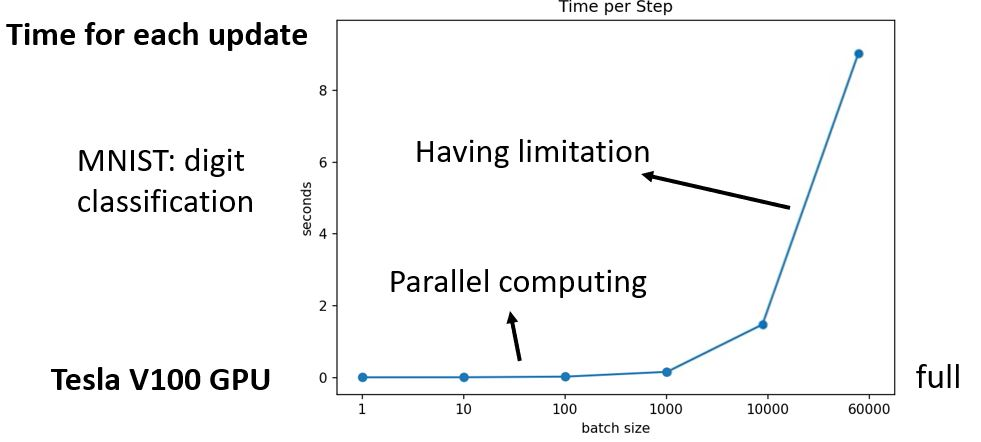
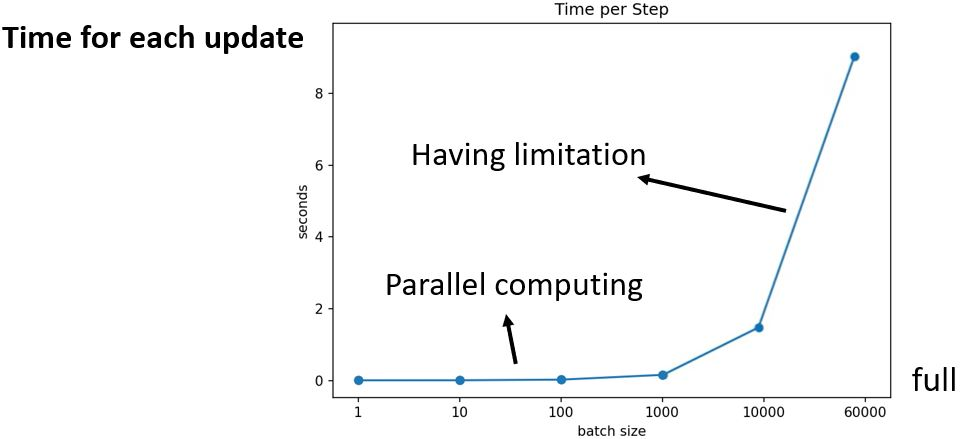
Update 2.md, 13.JPG, and 11 more files...

diff --git a/part5/chapter2/2.md b/part5/chapter2/2.md
@@ -53,17 +53,87 @@ sort: 2
 
 #### Review: Optimization with batch
 
-<figure><img src="./images/2/11.JPG" width=500px></figure>
+<figure><img src="./images/2/11.JPG" width=450px></figure>
 
 #### Small batch v.s. Large batch
 
 &emsp;&emsp;考虑有20个样本的情况（$$N=20$$）：
 
-<figure><img src="./images/2/12.JPG" width=600px></figure>
+<figure><img src="./images/2/12.JPG" width=550px></figure>
 
-左边的方法更新的一步更稳定，但是看起来花的时间长。但是实际上，考虑到并行运算，**大的batch size在计算梯度的时候并不需要更长的时间**。
+左边的方法更新的一步更稳定，但是看起来花的时间长。但是实际上，考虑到并行运算，<b><font color="#3399ff">大的batch size在计算梯度的时候并不需要更长的时间</font></b>。
 
-<figure><img src="./images/2/13.JPG" width=500px></figure>
+<figure>
+    <img src="./images/2/13.JPG" width=450px>
+    <figcaption>用Tesla V100 GPU在MNIST数据集上每次更新的时间随batch size变化的情况</figcaption>
+</figure>
+
+&emsp;&emsp;并且，<b><font color="#3399ff">较小的batch一次epoch所需的时间反而更长</font></b>（花更多的时间来把所有的数据看一遍）。
+
+<figure><img src="./images/2/14.JPG" width=450px></figure>
+
+&emsp;&emsp;那么大的batch就一定好吗？
+
+<figure>
+    <img src="./images/2/15.JPG" width=450px>
+    <figcaption>不同训练集上准确率随batch size变化的情况</figcaption>
+</figure>
+
+从上图可以看出，小的batch size的表现更好。那么大的batch size有什么问题呢？  — <b><font color="#FF4500">Optimization Fails</font></b>（因为用的都是一样的模型，所以不是因为model bias）
+
+* <b><font color="#3399ff">小的batch size性能更好</font></b>
+* <b><font color="#3399ff">“noisy”的更新有利于训练</font></b>
+
+<figure><img src="./images/2/16.JPG" width=380px></figure>
+
+此外，<b><font color="#3399ff">small batch在测试数据上表现也更好</font></b>。
+
+<figure>
+    <img src="./images/2/17.JPG" width=550px>
+    <figcaption>On Large-Batch Training for Deep Learning: Generalization Gap and Sharp Minima中的结果</figcaption>
+</figure>
+
+<figure><img src="./images/2/18.JPG" width=450px></figure>
+
+&emsp;&emsp;Small Batch v.s. Large Batch，两者各有优缺点，所以**batch size是一个需要我们决定的hyperparameter**。
+
+<figure><img src="./images/2/19.JPG" width=420px></figure>
+
+两者兼得？  
+&emsp;&emsp;[Large Batch Optimization for Deep Learning: Training BERT in 76 minutes](https://arxiv.org/abs/1904.00962)  
+&emsp;&emsp;[Extremely Large Minibatch SGD: Training ResNet-50 on ImageNet in 15 Minutes](https://arxiv.org/abs/1711.04325)  
+&emsp;&emsp;[Stochastic Weight Averaging in Parallel: Large-Batch Training That Generalizes Well](https://arxiv.org/abs/2001.02312)  
+&emsp;&emsp;[Large Batch Training of Convolutional Networks](https://arxiv.org/abs/1708.03888)  
+&emsp;&emsp;[Accurate, large minibatch sgd: Training imagenet in 1 hour](https://arxiv.org/abs/1706.02677)
+
+### 2.2.2 Momentum
+
+<figure><img src="./images/2/20.JPG" width=350px></figure>
+
+&emsp;&emsp;考虑物理世界，error surface就是斜坡，而参数是一个球，球从斜坡上滚下来，由于惯性的存在，它不一定会被鞍点或局部极小点卡住。
+
+#### (Vanilla) Gradient descent
+
+<figure><img src="./images/2/21.JPG" width=400px></figure>
+
+&emsp;&emsp;一般的梯度下降：计算初始点处的梯度，然后往梯度的反方向更新一次参数，得到一组新的参数，然后计算梯度并往梯度的反方向更新一次参数……不断重复这个过程。
+
+#### Gradient descent + Momentum
+
+<figure><img src="./images/2/23.JPG" width=650px></figure>
+
+<figure><img src="./images/2/24.JPG" width=450px></figure>
+
+### 2.2.3 Concluding remarks
+
+* 驻点处梯度为零
+* 驻点可能是鞍点或局部极小值点
+  * 可以利用Hessian矩阵来区别
+  * 沿着Hessian矩阵的特征向量可以逃离鞍点
+  * 局部极小点可能是很少见的
+* 更小的batch size和momentum可以帮助逃离驻点
+
+
 
 
 <!-- 蓝 -->
